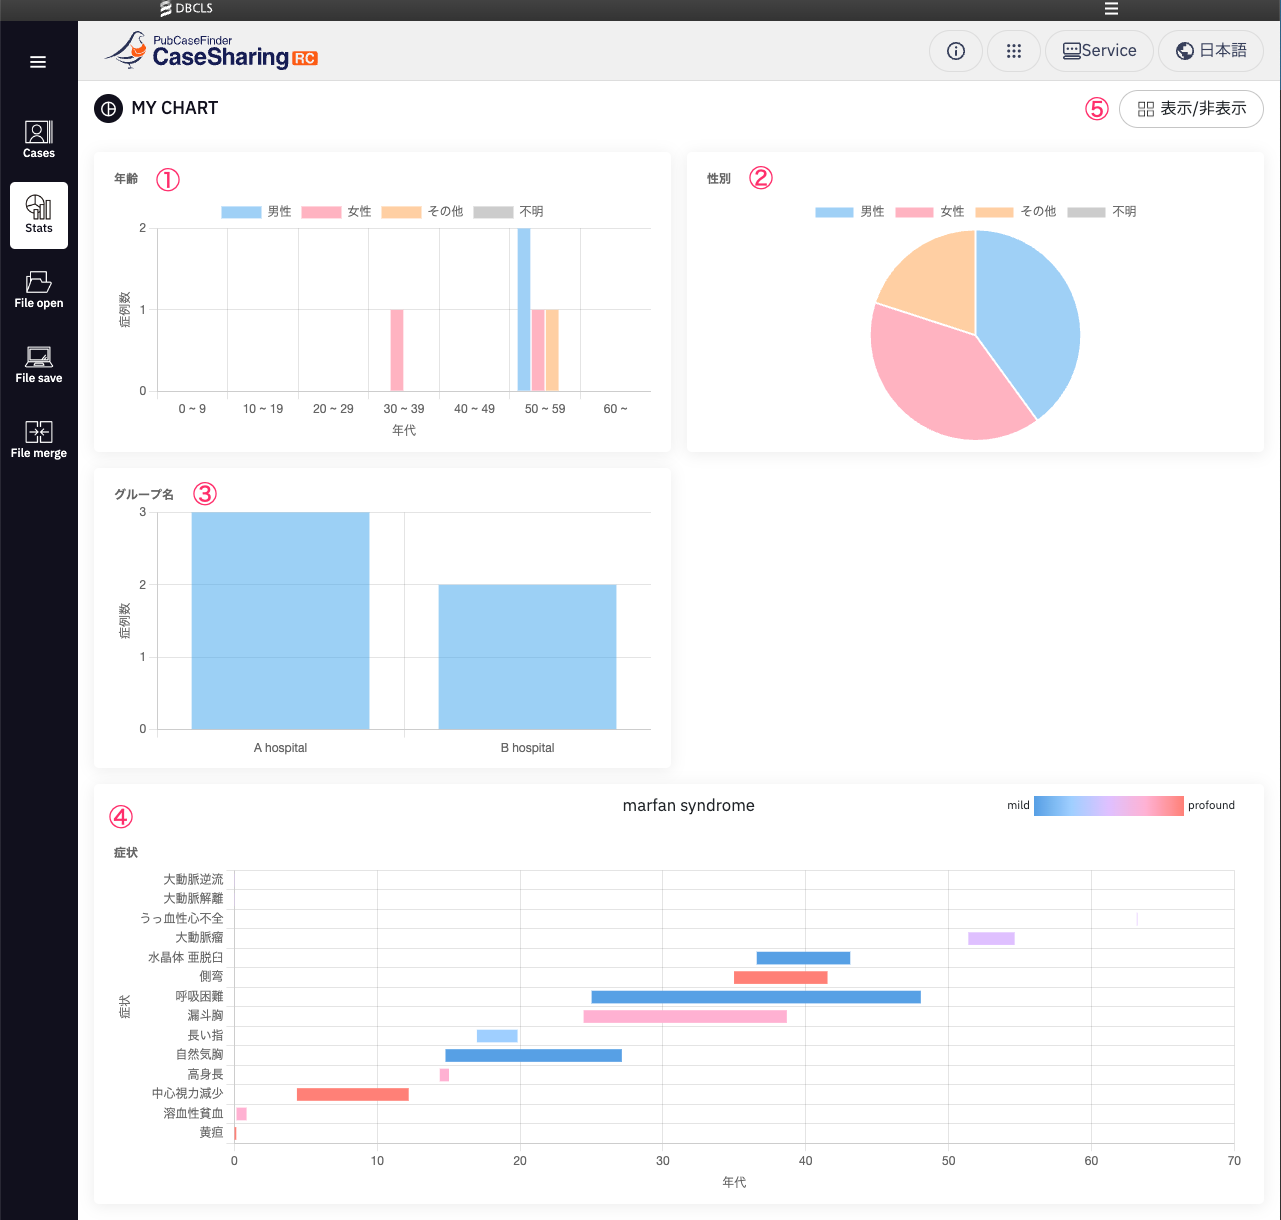
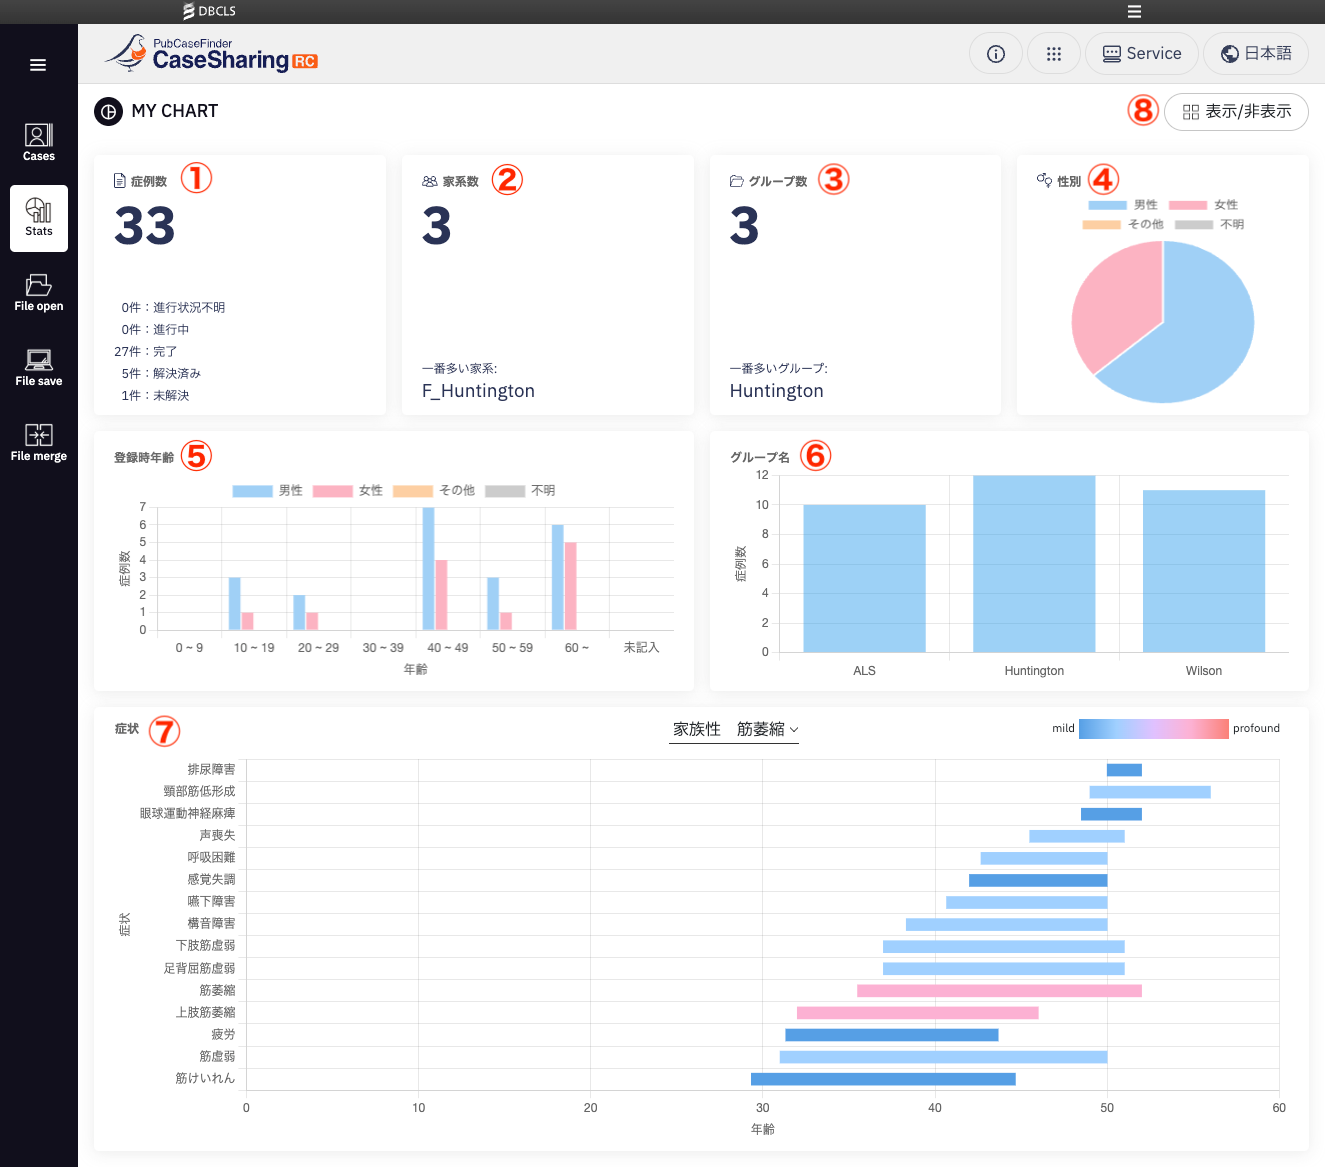
Statsに症例数、家系数、グループ数を追加し、性別の画像を最新のものに更新

diff --git a/docs/stats/screen-specifications.md b/docs/stats/screen-specifications.md
@@ -10,8 +10,11 @@
 
 | 番号 | 機能 | 詳細 |
 | ---- | ---- | ---- |
-| 1 | [年齢](../age) | 対象患者の年齢分布を示す棒グラフ |
-| 2 | [性別](../gender) | 対象患者の性別構成を示す円グラフ |
-| 3 | [グループ名](../group-name) | 対象患者の所属するグループの分布を示す棒グラフ |
-| 4 | [症状](../symptoms) | ある疾患の症状と発症する年代、重症度を示す水平棒グラフ |
-| 5 | 表示/非表示 | グラフの表示/非表示切替UI。設定内容はcookieに保持する。 |
+| 1 | [症例数](../case-count) | 対象患者の症例数の統計情報 |
+| 2 | [家系数](../family-count) | 対象患者の家系数の統計情報 |
+| 3 | [グループ数](../group-count) | 対象患者のグループ数の統計情報 |
+| 4 | [性別](../gender) | 対象患者の性別構成を示す円グラフ |
+| 5 | [登録時年齢](../age) | 対象患者の登録時年齢分布を示す棒グラフ |
+| 6 | [グループ名](../group-name) | 対象患者の所属するグループの分布を示す棒グラフ |
+| 7 | [症状](../symptoms) | ある疾患の症状と発症する年代、重症度を示す水平棒グラフ |
+| 8 | 表示/非表示 | グラフの表示/非表示切替UI。設定内容はcookieに保持する。 |

diff --git a/docs/stats/case-count.md b/docs/stats/case-count.md
@@ -1,0 +1,13 @@
+# 症例数
+
+![症例数の統計情報](../../assets/images/stats_case_count.png)
+
+## データ仕様
+| 表示情報 | 説明 |
+| ---- | ---- |
+| 症例数 | 症例の数 |
+| 進行状況不明 | 診断状況（medical_case_solved）が「進行状況不明」の症例数を表示 |
+| 進行中 | 診断状況（medical_case_solved）が「進行中」の症例数を表示 |
+| 完了 | 診断状況（medical_case_solved）が「完了」の症例数を表示 |
+| 解決済み | 診断状況（medical_case_solved）が「解決済み」の症例数を表示 |
+| 未解決 | 診断状況（medical_case_solved）が「未解決」の症例数を表示 |

diff --git a/docs/stats/group-count.md b/docs/stats/group-count.md
@@ -1,0 +1,9 @@
+# グループ数
+
+![グループ数の統計情報](../../assets/images/stats_group_count.png)
+
+## データ仕様
+| 表示情報 | 説明 |
+| ---- | ---- |
+| グループ数 | グループ名（case_group）の種類の数。データがFalsy（nullや空白）のグループ名はカウントされない。 |
+| 一番多いグループ | グループ名（case_group）の中で症例数が1番多いグループ名を表示。<br><ul><li>1番多いグループ名が複数ある場合は「,」区切りで表示</li><li>グループ数が0の場合は「-」を表示</li></ul> |

diff --git a/docs/stats/family-count.md b/docs/stats/family-count.md
@@ -1,0 +1,9 @@
+# 家系数
+
+![家系数の統計情報](../../assets/images/stats_family_count.png)
+
+## データ仕様
+| 表示情報 | 説明 |
+| ---- | ---- |
+| 家系数 | 家族ID（case_family_id）の種類の数。データがFalsy（nullや空白）の家族IDはカウントされない。 |
+| 一番多い家系 | 家族ID（case_family_id）の中で症例数が1番多い家族IDを表示。<br><ul><li>1番多い家族IDが複数ある場合は「,」区切りで表示</li><li>家系数が0の場合は「-」を表示</li></ul> |
